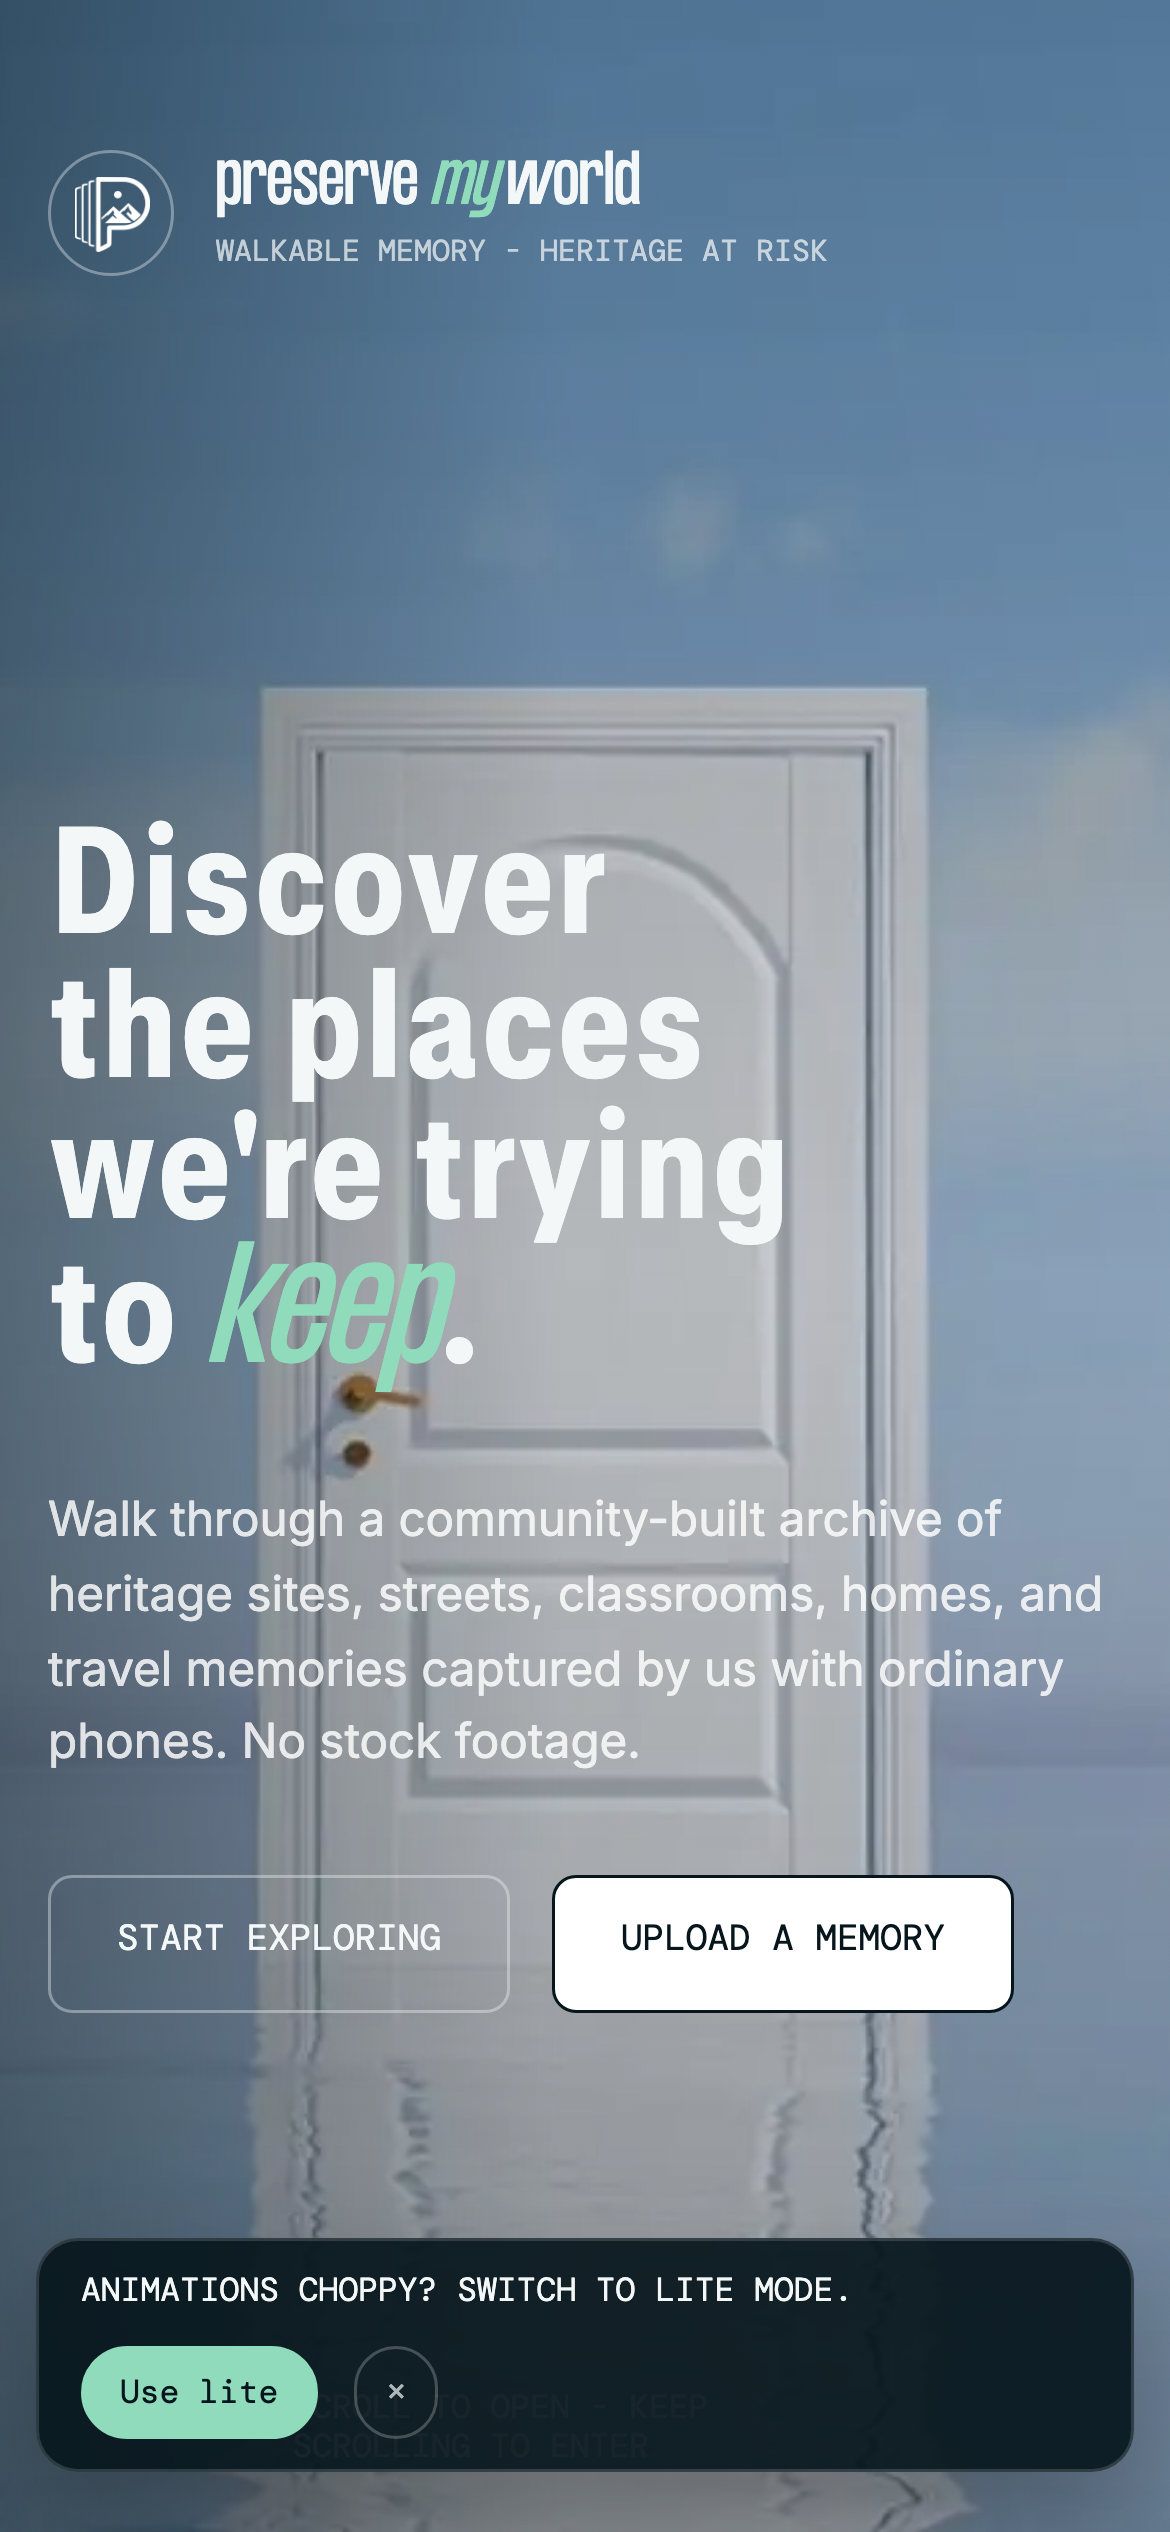
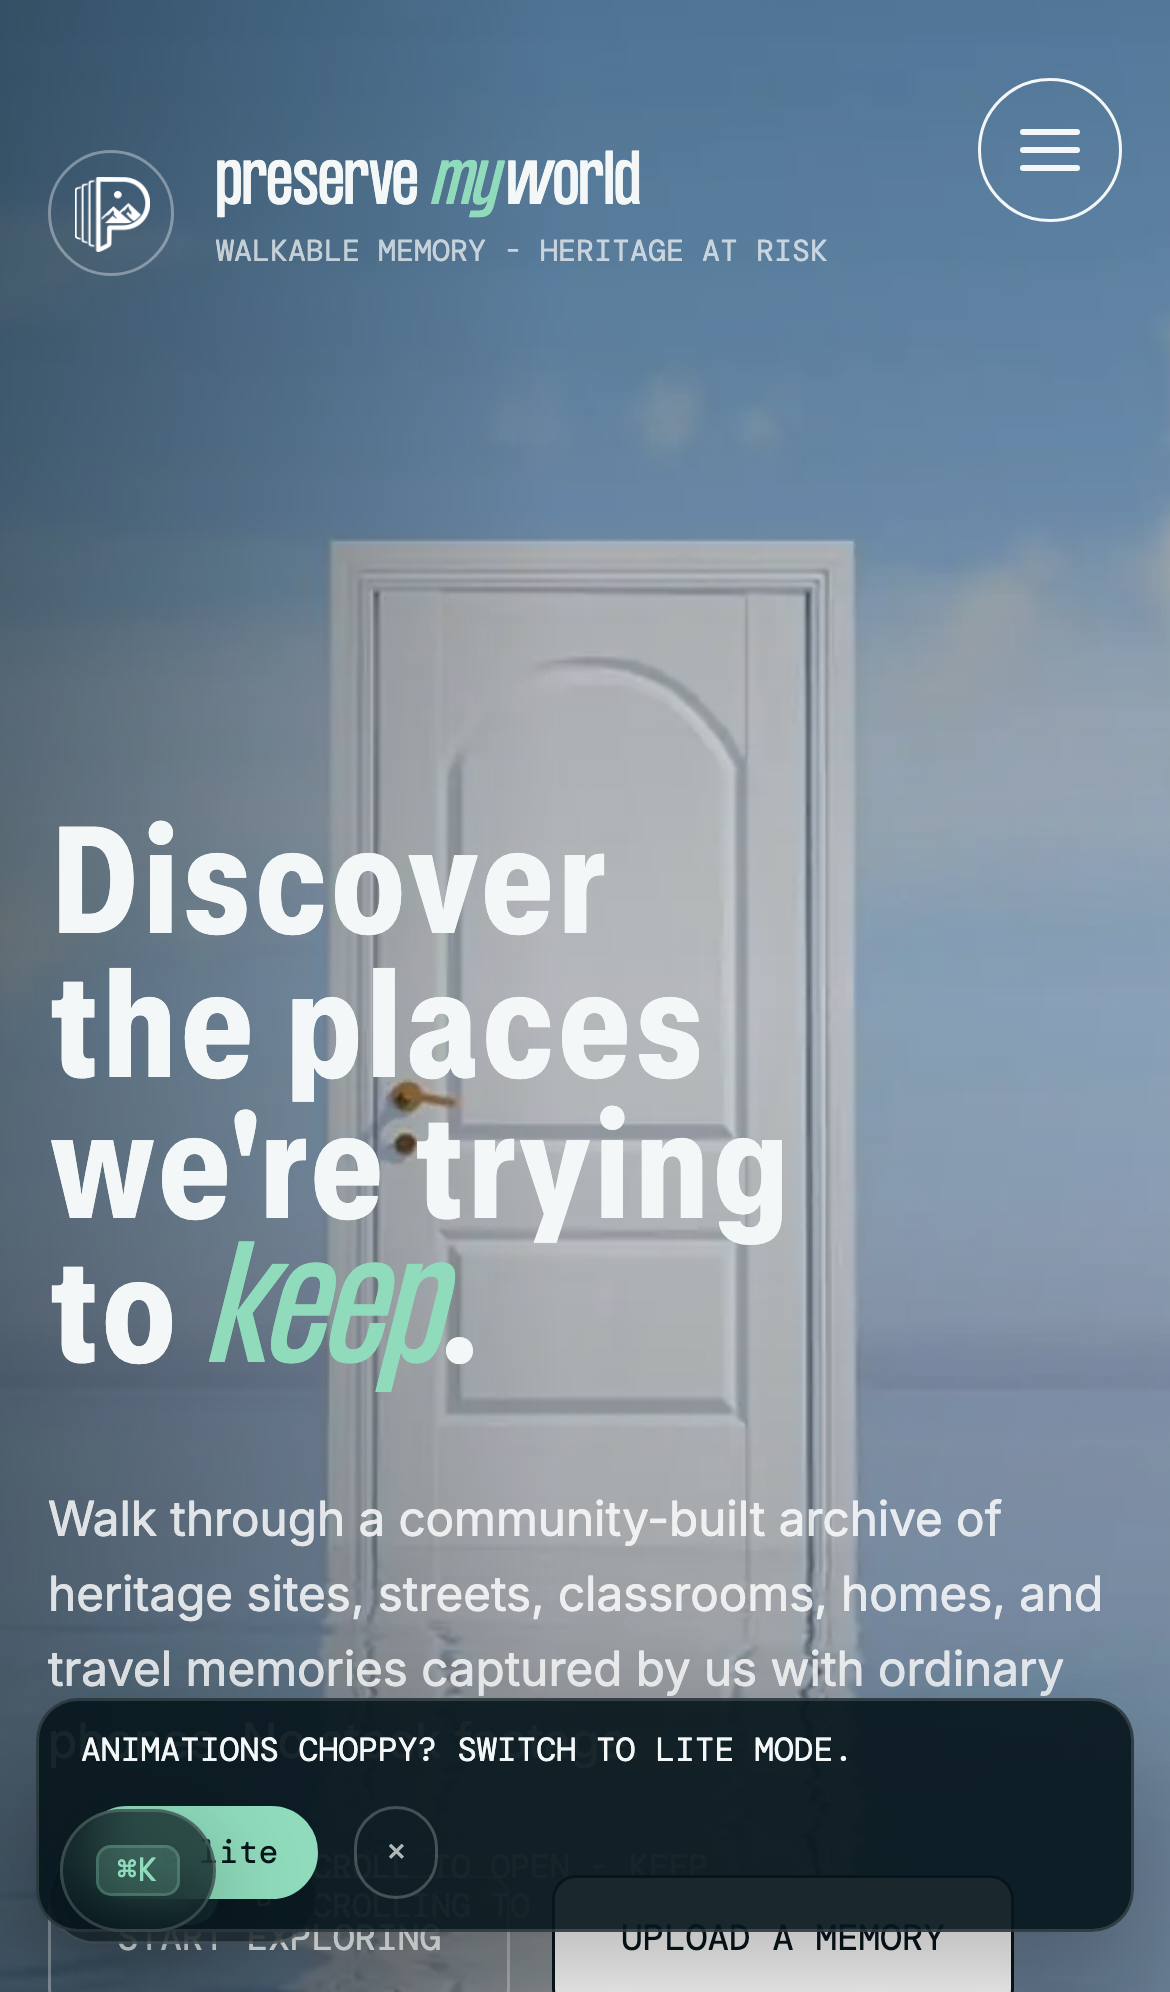
Docs: immersive README showcase with hero GIF, new-feature tour, and media
Rewrites the README around a captured landing-page GIF, adds screenshots
of the Capture Studio and command palette, documents the A/B hero toggle,
tests, and beginner setup.

diff --git a/README.md b/README.md
@@ -1,39 +1,61 @@
 # preservemy.world 🌍🚪
 
-<p align="center">
-  <img alt="Type: static site" src="https://img.shields.io/badge/type-static%20site-217f6f" />
-  <img alt="Build: none required" src="https://img.shields.io/badge/build-none%20required-58a677" />
-  <img alt="3D: three.js + Spark" src="https://img.shields.io/badge/3D-three.js%20%2B%20Spark-8fdbbb" />
-  <img alt="PWA installable" src="https://img.shields.io/badge/PWA-installable-b85f45" />
-  <img alt="License: All rights reserved" src="https://img.shields.io/badge/license-all%20rights%20reserved-07161c" />
-</p>
-
 > Walkable memory, heritage at risk. Turn ordinary phone footage into 3D worlds you can wander back into.
-
-**One-line preview** (Python is already on most machines):
-
-```bash
-git clone https://github.com/waleedsworld/preservemy-world.git && cd preservemy-world && python3 -m http.server 5803
-# then open http://127.0.0.1:5803/
-```
 
 **preservemy.world** takes the places people are quietly losing — a family room before a move, a courtyard before repair, a mountain path before the season changes it — and turns everyday video into **walkable 3D memories**. No stock footage, no fancy rig. Just a phone, a place worth keeping, and a door you can open again later.
 
-This repository holds the marketing site (a lovingly hand-built, scroll-animated landing experience) and an **experimental 3D reconstruction demo** that renders real captured scenes as point clouds and Gaussian splats right in the browser.
+This repo holds the marketing site (a lovingly hand-built, scroll-animated landing experience), an **in-browser 3D reconstruction demo** that renders real captured scenes as point clouds and Gaussian splats, and — new in this pass — a **Capture Studio planner, a ⌘K command palette, a mobile nav drawer, an A/B hero experiment, and a full test suite**.
 
 <p align="center">
-  <img src="docs/media/hero-desktop.png" alt="preservemy.world hero — Discover the places we're trying to keep" width="100%" />
+  <img src="docs/media/landing-demo.gif" alt="preservemy.world landing page in motion — the door opens onto a captured world" width="100%" />
+</p>
+
+<p align="center"><em>Real capture. Real page. The door actually opens. 🚪✨</em></p>
+
+---
+
+## 🆕 What's new in this release
+
+We didn't just dust the place — we added whole new rooms.
+
+| ✨ New | What it does | Where |
+| --- | --- | --- |
+| **Capture Studio** | An interactive planner that hands you a tailored, shot-by-shot capture checklist based on *what* you're preserving (room, façade, courtyard, path, or a single object) and *how much time* you have. | `#studio` on the site · `assets/studio/` |
+| **⌘K Command Palette** | A keyboard-first launcher (⌘K / Ctrl-K) that fuzzy-jumps between sections, opens the 3D demo, and surfaces key actions — because scrolling a long story shouldn't be the only way around. | `assets/command-palette.js` |
+| **Mobile nav drawer** | A proper slide-in navigation for phones and tablets, so the menu no longer plays hide-and-seek on small screens. | `assets/mobile-nav.js` |
+| **UI polish layer** | Non-invasive micro-interactions: refined hover/focus states, button feedback, and IntersectionObserver-driven scroll reveals. | `assets/ui-enhance.*` |
+| **A11y + perf pass** | Keyboard-visible focus rings, a skip-to-content link, `prefers-reduced-motion` handling for the hero video, and preconnect/font-preload resource hints. | inline in `index.html` |
+| **Hero A/B experiment** | An alternate hero treatment (Variant B) that stays completely inert unless you add `?variant=b`. Ship experiments without shipping risk. | `assets/variants/` · [docs](docs/HERO-AB-VARIANT.md) |
+| **Discoverability & packaging** | Full favicon/icon set, web app manifest, JSON-LD structured data, `sitemap.xml`, `robots.txt`, and a social share card for rich link previews. | repo root · `assets/icons/` |
+| **Automated test suite + CI** | Node unit tests for asset/config/structure invariants and Playwright e2e specs for the landing page, forms, and 3D demo — all wired into GitHub Actions. | `tests/` · `.github/workflows/` |
+
+### The Capture Studio, in action
+
+Tell it what you're keeping; it hands back a plan you can check off with a phone in your hand — session length, number of passes, overlap, pace, a shot checklist, and the do's and don'ts that actually make a scene *solve*.
+
+<p align="center">
+  <img src="docs/media/capture-studio.png" alt="Capture Studio — pick what you're preserving and get a tailored shot-by-shot plan" width="100%" />
+</p>
+
+### ⌘K to go anywhere
+
+<p align="center">
+  <img src="docs/media/command-palette.png" alt="The ⌘K command palette open over the hero, fuzzy-matching sections and actions" width="80%" />
 </p>
 
 ---
 
-## ✨ What's inside
+## 🧭 A/B hero experiment
 
-| Piece | What it does |
-| --- | --- |
-| **Landing site** (`index.html` + `assets/`) | A full scroll-driven story: hero, live worlds, "how it works", capabilities, real stories, and program forms. Smooth scrolling via Lenis, kinetic type via SplitType. |
-| **Demo world** (`demo-game/`) | An in-browser 3D viewer built on [three.js](https://threejs.org/) + [Spark](https://sparkjs.dev/) that streams a captured scene as a Gaussian splat, with a point-cloud loader and a guided camera trajectory. Installable as a PWA. |
-| **Lite mode** | A lightweight media path for phones and choppy connections — the hero still moves, your battery still lives. |
+The site ships two hero treatments. **Variant A** (default) is the door-opening kinetic hero you see above. **Variant B** is an alternate framing that reuses the existing form wiring and only wakes up when asked:
+
+```
+https://preservemy.world/?variant=b
+```
+
+No query string, no Variant B — it's fully inert by default, so there's zero risk to the production experience. The full write-up lives in [`docs/HERO-AB-VARIANT.md`](docs/HERO-AB-VARIANT.md).
+
+---
 
 ## 🖼 A look around
 
@@ -41,14 +63,19 @@ This repository holds the marketing site (a lovingly hand-built, scroll-animated
 | --- | --- | --- |
 | ![Desktop hero](docs/media/hero-desktop.png) | ![Mobile hero](docs/media/hero-mobile.png) | ![3D reconstruction demo](docs/media/demo-pointcloud.png) |
 
-## 🌱 Features
+---
+
+## 🌱 Core features
 
 - **Walk, don't scroll** — every world is a timestamped place you can move through, not a flat photo.
 - **Captured by real people, on real phones** — no stock footage anywhere on the site.
-- **Fully responsive** — the layout, type, and media all adapt gracefully from a 4K monitor down to a pocket screen.
-- **Fast & considerate** — reduced-motion support, lite mode for weak connections, and lazily-loaded video posters.
-- **Discoverable by default** — full Open Graph + Twitter card metadata, a 1200×630 social card, JSON-LD structured data (`WebSite` / `Organization` / `WebApplication`), a canonical URL, `robots.txt`, `sitemap.xml`, a site web manifest, and a complete favicon set — so shared links look the part and search engines understand the site.
+- **Fully responsive** — layout, type, and media adapt gracefully from a 4K monitor down to a pocket screen, now with a dedicated mobile nav drawer.
+- **Fast & considerate** — reduced-motion support, lite mode for weak connections, lazily-loaded video posters, and resource hints to cut layout shift.
+- **Keyboard-friendly** — visible focus rings, a skip link, and ⌘K to jump anywhere.
+- **Social-ready** — Open Graph, Twitter cards, JSON-LD, and a share image so links look the part.
 - **Installable demo** — the reconstruction viewer ships a web manifest and service worker, so it can live on a home screen.
+
+---
 
 ## 🚀 Run it locally
 
@@ -64,7 +91,7 @@ python3 -m http.server 5803
 
 # 3. Open the door
 #    Landing page → http://127.0.0.1:5803/
-#    3D demo      → http://127.0.0.1:5803/demo-game/
+#    3D demo      → http://127.0.0.1:5803/demo-game/   (see note below)
 ```
 
 Prefer Node? `npx serve .` works just as well. Prefer Docker? There's a `Dockerfile` that serves the site on port 8080 with nginx:
@@ -75,33 +102,65 @@ docker run --rm -p 8080:8080 preservemy-world
 # → http://127.0.0.1:8080/
 ```
 
-> 💡 **Heads up:** the 3D demo streams its scene from a remote splat host. On a slow or offline connection the viewer will show a friendly "still loading / could not load" message instead of the world — that's expected, not a bug in your setup.
+> 💡 **The 3D demo needs cross-origin isolation** (COOP/COEP headers) for Spark's `SharedArrayBuffer`. A plain `python3 -m http.server` won't set those — so the demo ships its own hardened dev server: `python3 demo-game/serve.py` sends the right headers. On a slow or offline connection the viewer shows a friendly "still loading / could not load" message instead of the world — that's expected, not a bug.
+
+---
+
+## 🧪 Tests
+
+The suite is split into fast Node unit checks and Playwright end-to-end specs.
+
+```bash
+npm install                # dev-only: @playwright/test
+npm run test:unit          # asset / config / structure invariants (node --test)
+npm run test:e2e:install   # one-time: fetch the Chromium browser
+npm run test:e2e           # landing page, forms, and 3D demo e2e
+npm test                   # unit + e2e together
+```
+
+Everything runs on push via `.github/workflows/tests.yml`. Green ticks or it didn't happen.
+
+---
 
 ## 🗂 Project layout
 
 ```
 preservemy-world/
-├── index.html          # the landing experience (all CSS/JS inline)
-├── assets/             # fonts, hero videos, world clips, posters, social icons
-├── demo-game/          # the in-browser 3D reconstruction viewer (PWA)
-│   ├── index.html      # three.js + Spark scene + guided trajectory
-│   ├── loader-point-cloud.json
-│   ├── trajectory.json
-│   └── manifest.webmanifest
-└── Dockerfile          # nginx static-serve for deployment
+├── index.html              # the landing experience (all core CSS/JS inline)
+├── assets/
+│   ├── studio/             # 🆕 Capture Studio planner (css + js)
+│   ├── command-palette.js  # 🆕 ⌘K quick-nav
+│   ├── mobile-nav.js       # 🆕 slide-in mobile navigation
+│   ├── ui-enhance.*        # 🆕 micro-interactions + scroll reveals
+│   ├── variants/           # 🆕 hero A/B experiment (inert unless ?variant=b)
+│   ├── icons/              # 🆕 favicon / PWA icon set
+│   ├── fonts/  places/  worlds/  social/   # type, hero video, world clips, posters
+│   └── ...
+├── demo-game/              # in-browser 3D reconstruction viewer (PWA)
+│   ├── index.html          # three.js + Spark scene + guided trajectory
+│   └── serve.py            # 🆕 hardened dev server w/ COOP/COEP + CLI flags
+├── tests/                  # 🆕 unit + Playwright e2e
+├── docs/                   # media + A/B experiment notes
+├── site.webmanifest · sitemap.xml · robots.txt · favicon.ico   # 🆕 packaging
+└── Dockerfile              # nginx static-serve for deployment
 ```
+
+---
 
 ## 🧰 Built with
 
-- Hand-written HTML/CSS/JS — no framework, all styles and logic inline for a single-request feel
+- Hand-written HTML/CSS/JS — no framework, core styles and logic inline for a single-request feel
 - [Lenis](https://lenis.darkroom.engineering/) for buttery smooth scrolling
 - [SplitType](https://github.com/lukePeavey/SplitType) for line-by-line kinetic typography
 - [three.js](https://threejs.org/) + [Spark](https://sparkjs.dev/) for the Gaussian-splat 3D demo
+- [Playwright](https://playwright.dev/) + Node's built-in test runner for CI
 - Custom typefaces (GT Standard, FS, Inter, DM Mono) for that editorial feel
 
-## 🌐 Live demo
+---
 
-Deploying soon. In the meantime, the "Run it locally" section above gets you the full experience in about thirty seconds.
+## 🌐 Live
+
+**[preservemy.world](https://preservemy.world)** — the door's already open. The 3D archive lives at **[game.preservemy.world](https://game.preservemy.world)**.
 
 ## 📄 License & credits
 
@@ -109,4 +168,4 @@ Original design, copy, and code for preservemy.world. The captured worlds, foota
 
 ---
 
-<p align="center"><em>Preserve the places the world might forget.</em></p>
+<p align="center"><em>Preserve the places the world might forget. 🚪</em></p>
